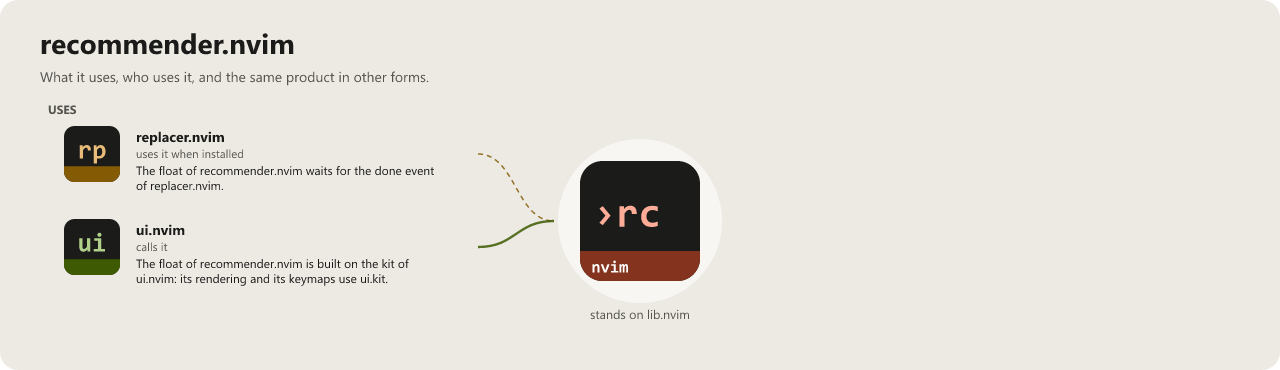
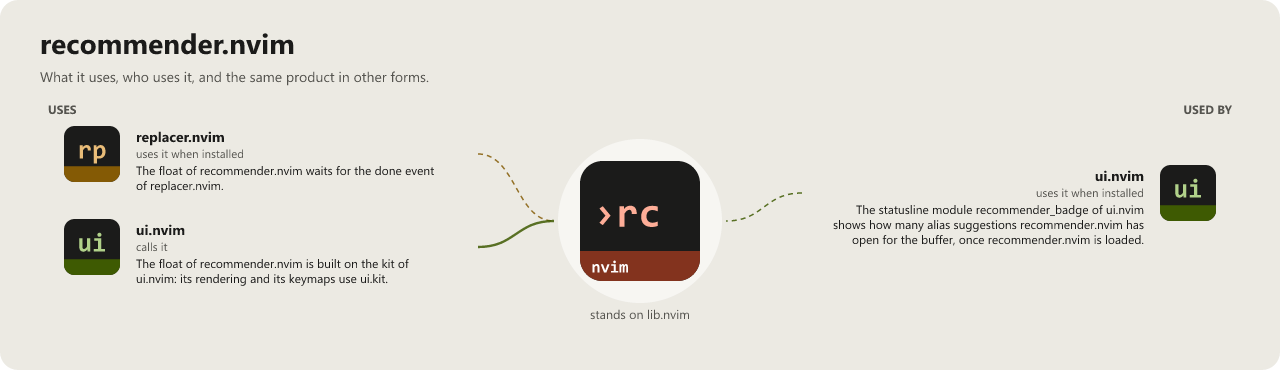
docs: regenerate the connection pictures (optional loads through probe/safe/package.loaded)
The graph scan of tasks-vault (TOOLS/scripts/app-icons, 821f99b) now reads the soft loaders like wkd does, so new optional edges and their sentences appear here.

Changed region(s): [[0.6562, 0.4459, 0.9688, 0.6838], [0.9062, 0.2676, 0.9688, 0.327]]

diff --git a/README.md b/README.md
@@ -104,4 +104,8 @@ recommender.nvim is released under the [MIT License](https://opensource.org/lice
 - [replacer.nvim](https://github.com/WKDSteve/replacer.nvim): The float of recommender.nvim waits for the done event of replacer.nvim. ([picture](assets/graphs/pair/recommender.nvim--replacer.nvim.png))
 - [ui.nvim](https://github.com/WKDSteve/ui.nvim): The float of recommender.nvim is built on the kit of ui.nvim: its rendering and its keymaps use `ui.kit`. ([picture](assets/graphs/pair/recommender.nvim--ui.nvim.png))
 - [lib.nvim](https://github.com/WKDSteve/lib.nvim): the shared base of the plugins.
+
+**Used by**
+
+- [ui.nvim](https://github.com/WKDSteve/ui.nvim): The statusline module `recommender_badge` of ui.nvim shows how many alias suggestions recommender.nvim has open for the buffer, once recommender.nvim is loaded. ([picture](assets/graphs/pair/ui.nvim--recommender.nvim.png))
 <!-- connections:end -->
